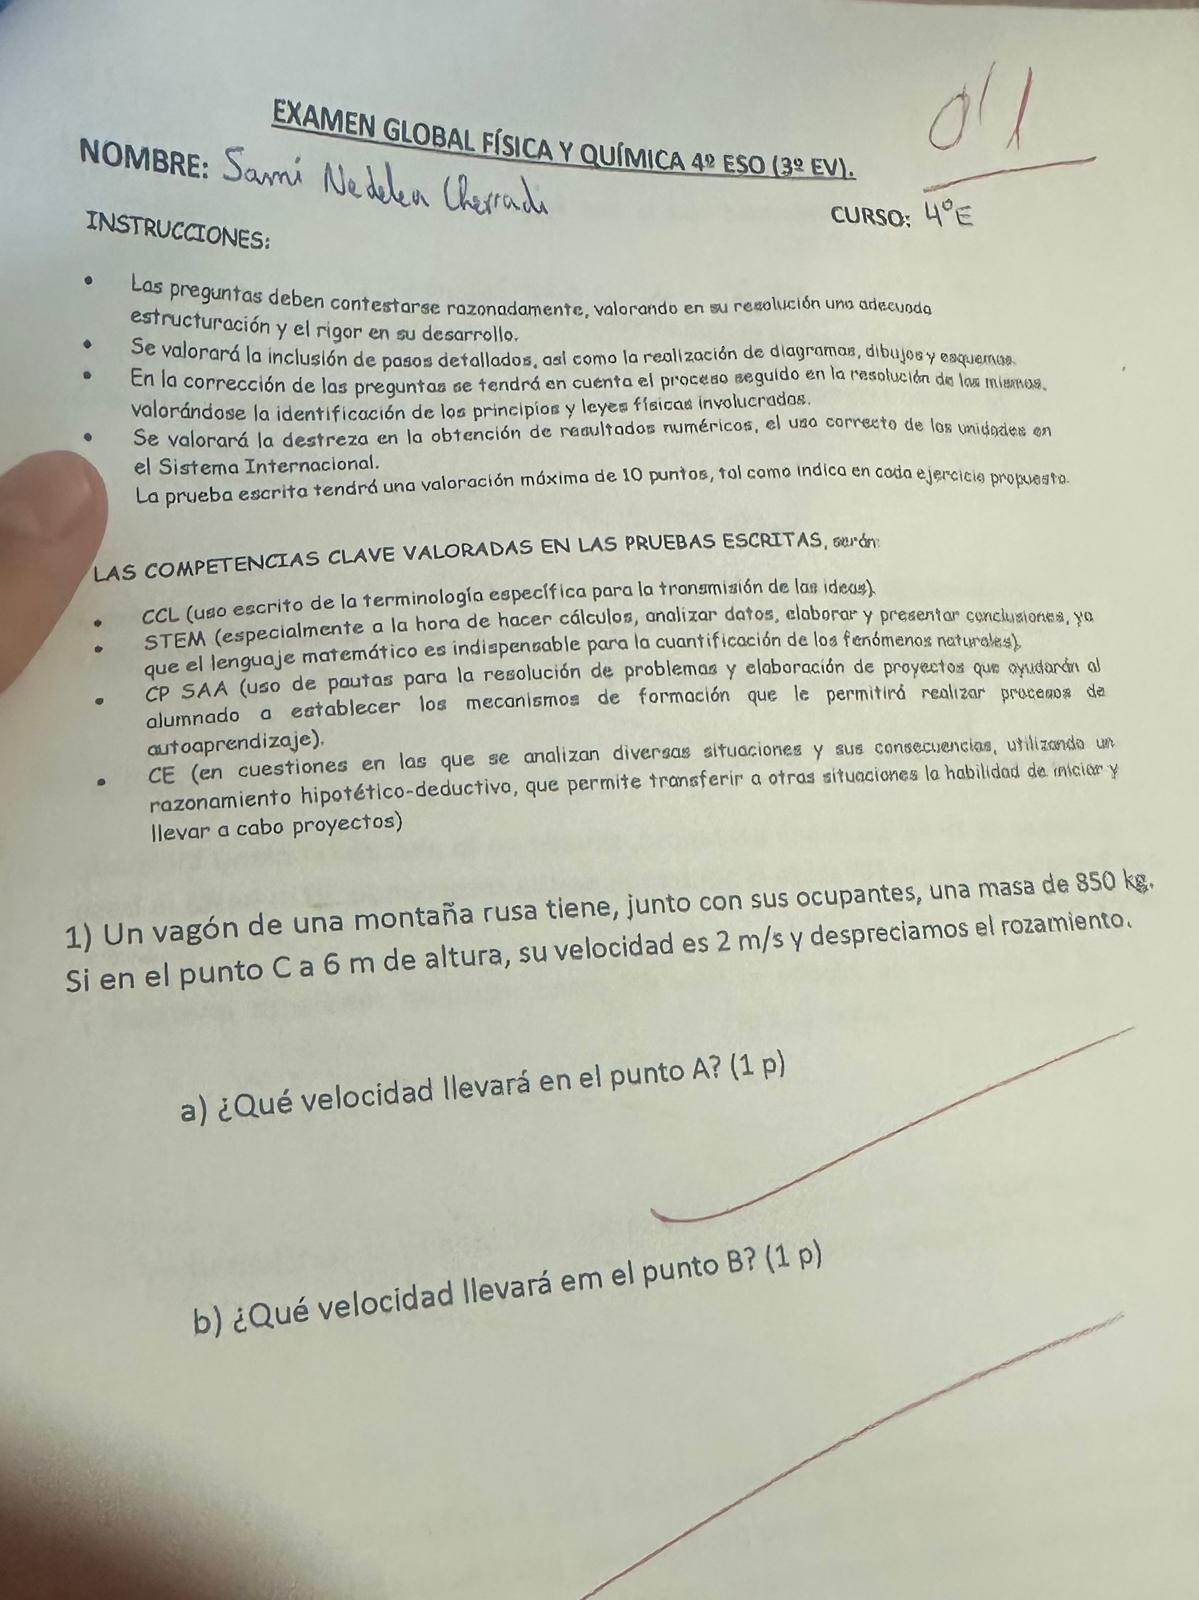
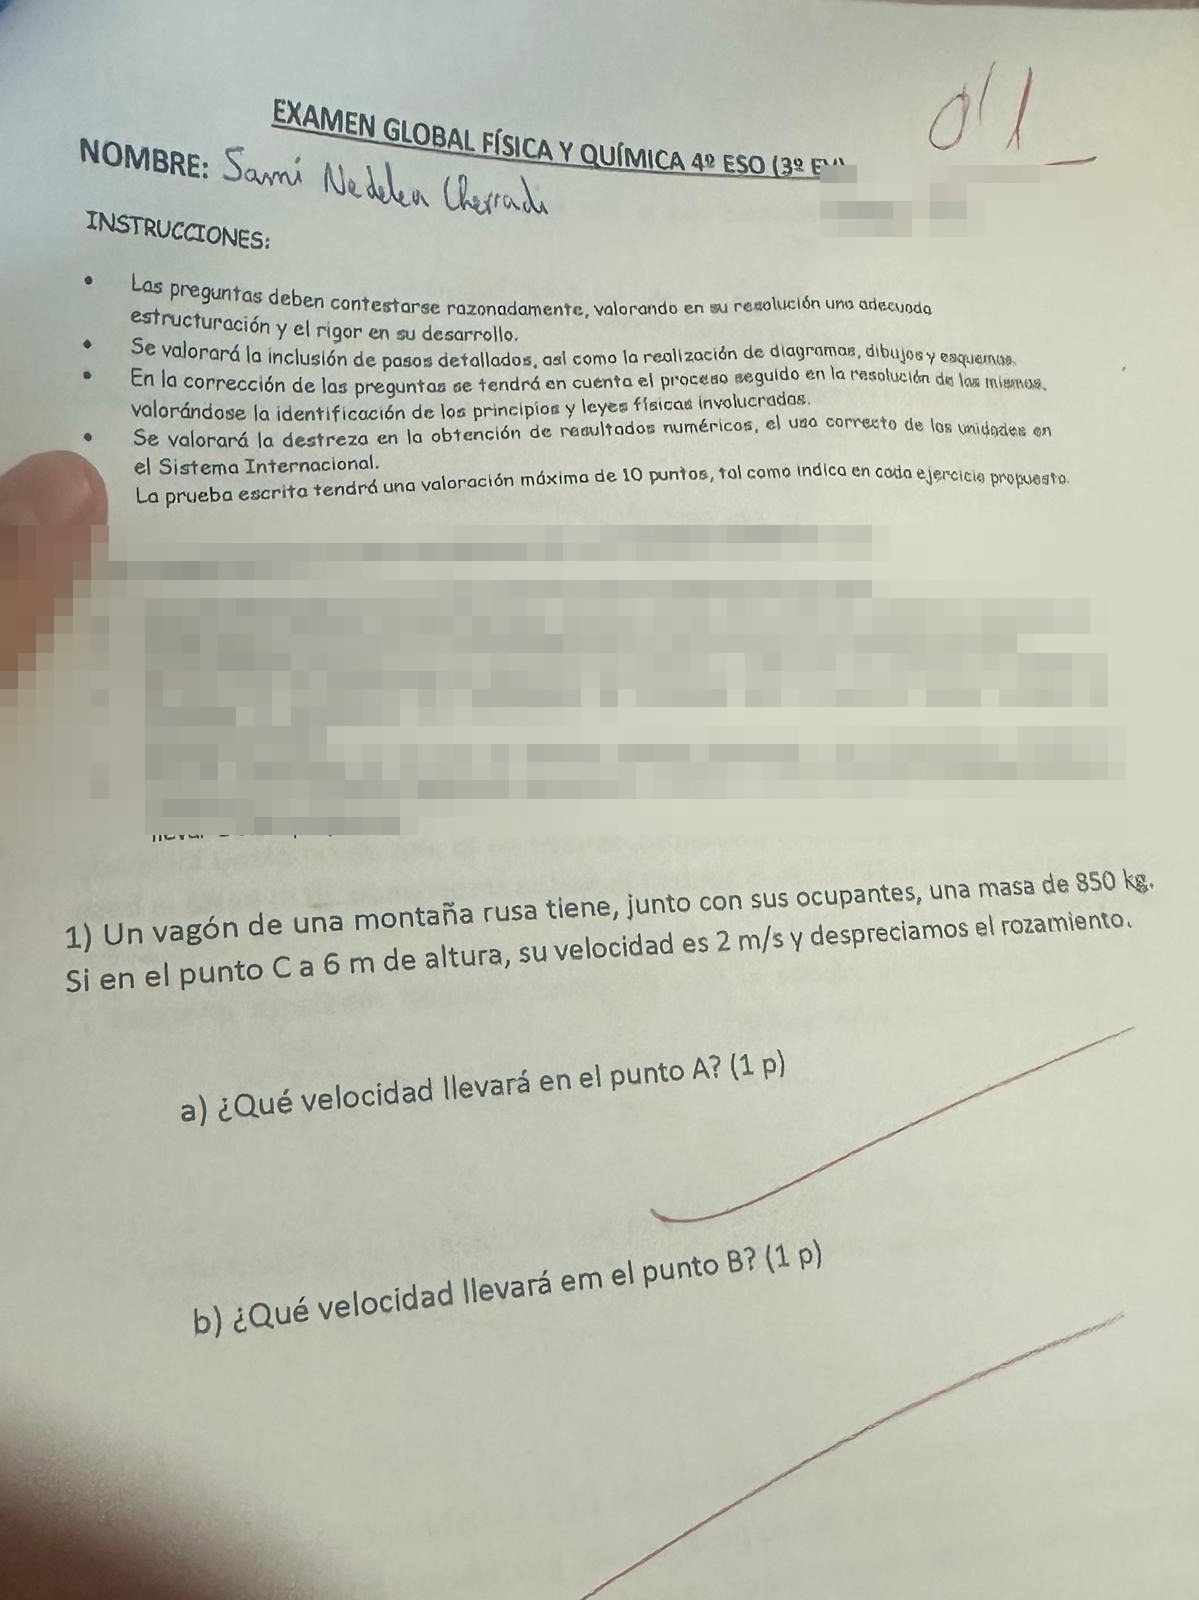
Replace form with 3-step wizard, simplify before/after photos
- New "Tus datos / Tu situación / Acceder" step form matching the
  reference screenshots: grouped fields per step, multiple choice
  question groups, WhatsApp country-code field, animated step indicator
  with native field validation before advancing
- Before/after section: removed the exam photo, back to antes+después
  only, wider landscape boxes with object-fit:contain so nothing is
  cropped, an arrow divider between them, and photos are now
  non-interactive (no click/drag/right-click) so they can't be opened
  large
- Pixelated the course field and competencies paragraph on the exam
  photo (kept in images/ for later use, not currently shown on the page)

Claude-Session: https://claude.ai/code/session_0115d6WxXQZwDDJHY3fDF3WX

Changed region(s): [[0.0617, 0.3125, 0.9258, 0.5312], [0.6789, 0.0938, 0.8023, 0.1562], [0.0309, 0.375, 0.0617, 0.4062]]

diff --git a/index.html b/index.html
@@ -17,7 +17,6 @@
      de aviso; en cuanto lo guardes con el nombre correcto, aparece solo):
        images/hero.jpg        → foto de presentación (arriba)
        images/antes.jpg       → tu foto de "antes"
-       images/examen.jpg      → foto del examen
        images/despues.jpg     → tu foto de "después"
        images/testimonio-1.jpg  a  images/testimonio-8.jpg → capturas/fotos
        de resultados (si quieres más o menos, cambia RESULT_PHOTOS_COUNT
@@ -133,18 +132,21 @@
 
   /* ---------------- story / antes-después ---------------- */
   .story{display:grid;grid-template-columns:1fr;gap:44px;align-items:center}
-  .ba-photos{
-    display:grid;grid-template-columns:1fr 1fr;grid-template-rows:1fr 1fr;
-    gap:14px;aspect-ratio:4/5;
-  }
+  .ba-photos{display:grid;grid-template-columns:1fr auto 1fr;gap:18px;align-items:center}
   .ba-photo{
     position:relative;border-radius:20px;overflow:hidden;
     border:1px solid var(--line);background:var(--bg-soft);
+    aspect-ratio:4/3;
   }
-  .ba-photo.ba-antes{grid-column:1;grid-row:1}
-  .ba-photo.ba-examen{grid-column:1;grid-row:2}
-  .ba-photo.ba-despues{grid-column:2;grid-row:1 / span 2}
-  .ba-photo img{width:100%;height:100%;object-fit:cover}
+  .ba-photo img{
+    width:100%;height:100%;object-fit:contain;pointer-events:none;
+    -webkit-touch-callout:none;-webkit-user-select:none;user-select:none;
+  }
+  .ba-arrow{
+    display:flex;align-items:center;justify-content:center;flex:none;
+    width:40px;height:40px;border-radius:999px;background:var(--red);color:#0a0a0b;
+    font-size:18px;font-weight:900;
+  }
   .ba-photo .badge{
     position:absolute;top:14px;left:14px;background:#ffffff;color:#0a0a0b;
     border:1px solid var(--line);
@@ -153,9 +155,8 @@
   }
   .ba-photo .badge.dark{background:#0a0a0b;color:#ffffff;border-color:rgba(255,255,255,.2)}
   @media (max-width:640px){
-    .ba-photos{grid-template-columns:1fr;grid-template-rows:none;aspect-ratio:auto;gap:10px}
-    .ba-photo{aspect-ratio:4/3}
-    .ba-photo.ba-antes,.ba-photo.ba-examen,.ba-photo.ba-despues{grid-column:1;grid-row:auto}
+    .ba-photos{grid-template-columns:1fr;gap:12px}
+    .ba-arrow{transform:rotate(90deg);margin:0 auto}
   }
   .cta-row{margin-top:26px}
 
@@ -215,23 +216,50 @@
     background:var(--bg-soft);border:1px solid var(--line);border-radius:24px;
     padding:52px 28px;max-width:640px;margin:0 auto;
   }
-  .apply-progress{height:5px;background:var(--line);border-radius:999px;overflow:hidden;margin-bottom:34px}
-  .apply-progress i{display:block;height:100%;background:var(--ink);border-radius:999px;transition:width .3s ease}
+  .steps-nav{display:flex;align-items:flex-start;justify-content:center;margin-bottom:38px}
+  .steps-nav .node{display:flex;flex-direction:column;align-items:center;gap:8px;flex:none;width:100px}
+  .steps-nav .dot{
+    width:36px;height:36px;border-radius:999px;border:2px solid var(--line);
+    display:flex;align-items:center;justify-content:center;font-weight:800;font-size:14px;
+    color:var(--muted);background:var(--bg-soft);transition:all .2s ease;
+  }
+  .steps-nav .node.active .dot,.steps-nav .node.done .dot{background:var(--red);border-color:var(--red);color:#0a0a0b}
+  .steps-nav .node .label{font-size:10px;font-weight:800;letter-spacing:.05em;text-transform:uppercase;color:var(--muted-2);text-align:center}
+  .steps-nav .node.active .label{color:var(--ink)}
+  .steps-nav .line{flex:1;height:2px;background:var(--line);margin-top:18px;min-width:16px;transition:background .2s ease}
+  .steps-nav .line.done{background:var(--red)}
   .step-q{font-family:var(--font-display);font-weight:800;font-size:24px;margin-bottom:6px}
   .step-hint{color:var(--muted);font-size:14px;margin-bottom:24px}
+  .field-label{display:block;font-weight:700;font-size:14px;margin-bottom:8px;color:var(--ink)}
+  .q-label{
+    font-family:var(--font-display);font-weight:800;font-size:12.5px;letter-spacing:.05em;
+    text-transform:uppercase;color:var(--ink);margin:26px 0 12px;
+  }
+  .q-label:first-child{margin-top:0}
   .field{
     width:100%;padding:16px 18px;border:1.5px solid var(--line);border-radius:12px;
     font-size:16px;font-family:inherit;background:#fff;color:#0a0a0b;
   }
   .field:focus{outline:none;border-color:#0a0a0b}
-  textarea.field{min-height:120px;resize:vertical}
+  textarea.field{min-height:100px;resize:vertical}
+  select.field{cursor:pointer}
+  .whatsapp-row{display:flex;gap:10px}
+  .whatsapp-row select.field{flex:none;width:98px;padding-left:10px;padding-right:6px}
+  .whatsapp-row input.field{flex:1}
   .choice-list{display:flex;flex-direction:column;gap:10px}
-  .choice{
+  .choice-grid{display:grid;grid-template-columns:1fr 1fr;gap:10px}
+  @media (max-width:480px){ .choice-grid{grid-template-columns:1fr} }
+  .choice,.choice2{
     width:100%;text-align:left;padding:16px 18px;border:1.5px solid var(--line);border-radius:12px;
     background:#fff;color:#0a0a0b;font-size:15.5px;cursor:pointer;font-family:inherit;
   }
-  .choice:hover{border-color:#0a0a0b}
+  .choice2{display:flex;align-items:center;gap:10px;font-size:14.5px}
+  .choice2 .radio{width:17px;height:17px;border-radius:999px;border:2px solid #c7c7cc;flex:none;position:relative}
+  .choice:hover,.choice2:hover{border-color:#0a0a0b}
   .choice.sel{border-color:#0a0a0b;background:#0a0a0b;color:#fff;font-weight:700}
+  .choice2.sel{border-color:var(--red)}
+  .choice2.sel .radio{border-color:var(--red)}
+  .choice2.sel .radio::after{content:'';position:absolute;inset:3px;border-radius:999px;background:var(--red)}
   .step-actions{display:flex;justify-content:space-between;align-items:center;margin-top:28px}
   .link-back{background:none;border:0;color:var(--muted);cursor:pointer;font-size:14px;padding:8px}
   .step{display:none}
@@ -311,20 +339,16 @@
         </div>
 
         <div class="ba-photos">
-          <div class="ba-photo ba-antes">
+          <div class="ba-photo" oncontextmenu="return false">
             <span class="badge">Antes</span>
-            <img src="images/antes.jpg" alt="Foto de antes de Sami Nedelea"
-              onerror="this.onerror=null;this.src='https://placehold.co/600x800/161619/7c7c85?text=Guarda+tu+foto+como%0Aimages%2Fantes.jpg'" />
+            <img src="images/antes.jpg" alt="Foto de antes de Sami Nedelea" draggable="false"
+              onerror="this.onerror=null;this.src='https://placehold.co/800x600/161619/7c7c85?text=Guarda+tu+foto+como%0Aimages%2Fantes.jpg'" />
           </div>
-          <div class="ba-photo ba-examen">
-            <span class="badge">Examen</span>
-            <img src="images/examen.jpg" alt="Examen de Sami Nedelea"
-              onerror="this.onerror=null;this.src='https://placehold.co/600x800/161619/7c7c85?text=Guarda+tu+foto+como%0Aimages%2Fexamen.jpg'" />
-          </div>
-          <div class="ba-photo ba-despues">
+          <div class="ba-arrow" aria-hidden="true">→</div>
+          <div class="ba-photo" oncontextmenu="return false">
             <span class="badge dark">Después</span>
-            <img src="images/despues.jpg" alt="Foto de después de Sami Nedelea"
-              onerror="this.onerror=null;this.src='https://placehold.co/600x800/161619/7c7c85?text=Guarda+tu+foto+como%0Aimages%2Fdespues.jpg'" />
+            <img src="images/despues.jpg" alt="Foto de después de Sami Nedelea" draggable="false"
+              onerror="this.onerror=null;this.src='https://placehold.co/800x600/161619/7c7c85?text=Guarda+tu+foto+como%0Aimages%2Fdespues.jpg'" />
           </div>
         </div>
       </div>
@@ -368,64 +392,93 @@
     <div class="wrap">
       <div class="head">
         <h2 class="display">Agenda tu llamada gratuita</h2>
-        <p class="lede">Responde estas preguntas rápidas para reservar tu hueco.</p>
+        <p class="lede">Recibe la clase gratis ahora y empieza hoy mismo.</p>
       </div>
 
       <div class="apply">
-        <div class="apply-progress"><i id="progressBar" style="width:16%"></i></div>
-        <form id="applyForm">
+        <div class="steps-nav" id="stepsNav">
+          <div class="node" data-step="0"><span class="dot">1</span><span class="label">Tus datos</span></div>
+          <div class="line" data-line="0"></div>
+          <div class="node" data-step="1"><span class="dot">2</span><span class="label">Tu situación</span></div>
+          <div class="line" data-line="1"></div>
+          <div class="node" data-step="2"><span class="dot">3</span><span class="label">Acceder</span></div>
+        </div>
 
+        <form id="applyForm" onsubmit="return false">
+
+          <!-- STEP 0: TUS DATOS -->
           <div class="step active" data-step="0">
-            <div class="step-q">¿Cuándo te gustaría empezar?</div>
-            <div class="step-hint">Si la llamada confirma que puedo ayudarte.</div>
-            <div class="choice-list" data-field="disponible">
-              <button type="button" class="choice">Ahora mismo</button>
-              <button type="button" class="choice">Esta semana</button>
-              <button type="button" class="choice">Aún no lo sé</button>
-            </div>
-          </div>
+            <label class="field-label" for="fNombre">Nombre</label>
+            <input class="field" id="fNombre" type="text" name="nombre" placeholder="Tu nombre y apellido" required />
 
-          <div class="step" data-step="1">
-            <div class="step-q">¿Cómo te llamas?</div>
-            <div class="step-hint">Tu nombre y apellido.</div>
-            <input class="field" type="text" name="nombre" placeholder="Escribe tu nombre aquí…" required />
-            <div class="step-actions">
-              <button type="button" class="link-back" onclick="prevStep()">← Volver</button>
-              <button type="button" class="btn" onclick="nextStep()">Continuar</button>
-            </div>
-          </div>
-
-          <div class="step" data-step="2">
-            <div class="step-q">¿A qué email te confirmo la llamada?</div>
-            <div class="step-hint">Revisa que esté bien escrito.</div>
+            <div class="q-label">Email</div>
             <input class="field" type="email" name="email" placeholder="tunombre@email.com" required />
-            <div class="step-actions">
-              <button type="button" class="link-back" onclick="prevStep()">← Volver</button>
-              <button type="button" class="btn" onclick="nextStep()">Continuar</button>
+
+            <div class="q-label">WhatsApp</div>
+            <div class="whatsapp-row">
+              <select class="field" name="prefijo">
+                <option value="+34">ES +34</option>
+                <option value="+52">MX +52</option>
+                <option value="+54">AR +54</option>
+                <option value="+57">CO +57</option>
+                <option value="+56">CL +56</option>
+                <option value="+51">PE +51</option>
+                <option value="+593">EC +593</option>
+                <option value="+58">VE +58</option>
+                <option value="+1">US/DO +1</option>
+              </select>
+              <input class="field" type="tel" name="telefono" placeholder="600 000 000" required />
+            </div>
+
+            <div class="step-actions" style="justify-content:flex-end">
+              <button type="button" class="btn" onclick="nextStep()">Continuar <span class="arrow">→</span></button>
             </div>
           </div>
 
-          <div class="step" data-step="3">
-            <div class="step-q">Cuéntame tu situación actual</div>
-            <div class="step-hint">¿Qué te gustaría conseguir? Sé honesto/a, esto lo leo yo.</div>
-            <textarea class="field" name="situacion" placeholder="Cuéntame tu situación y qué quieres conseguir…"></textarea>
+          <!-- STEP 1: TU SITUACIÓN -->
+          <div class="step" data-step="1">
+            <div class="q-label">¿Cuál es tu rango de edad?</div>
+            <div class="choice-grid" data-field="edad">
+              <button type="button" class="choice2"><span class="radio"></span>Menor de 18</button>
+              <button type="button" class="choice2"><span class="radio"></span>Entre 18 y 25</button>
+              <button type="button" class="choice2"><span class="radio"></span>Más de 25</button>
+            </div>
+
+            <div class="q-label">¿Cuánto estás generando actualmente?</div>
+            <div class="choice-grid" data-field="ingresos">
+              <button type="button" class="choice2"><span class="radio"></span>0€</button>
+              <button type="button" class="choice2"><span class="radio"></span>1 – 1.000€/mes</button>
+              <button type="button" class="choice2"><span class="radio"></span>1.000 – 3.000€/mes</button>
+              <button type="button" class="choice2"><span class="radio"></span>3.000 – 5.000€/mes</button>
+              <button type="button" class="choice2"><span class="radio"></span>+5.000€/mes</button>
+            </div>
+
+            <div class="q-label">¿A qué te dedicas actualmente?</div>
+            <div class="choice-grid" data-field="ocupacion">
+              <button type="button" class="choice2"><span class="radio"></span>Estudiante</button>
+              <button type="button" class="choice2"><span class="radio"></span>Empleado</button>
+              <button type="button" class="choice2"><span class="radio"></span>Tengo un negocio</button>
+              <button type="button" class="choice2"><span class="radio"></span>No hago nada</button>
+            </div>
+
+            <div class="q-label">¿Cuándo estarías disponible para empezar?</div>
+            <div class="choice-grid" data-field="disponible">
+              <button type="button" class="choice2"><span class="radio"></span>Ahora mismo</button>
+              <button type="button" class="choice2"><span class="radio"></span>Esta semana</button>
+              <button type="button" class="choice2"><span class="radio"></span>No lo sé porque no sé tomar decisiones</button>
+            </div>
+
+            <div class="q-label">¿Por qué quieres empezar en el programa?</div>
+            <textarea class="field" name="situacion" placeholder="Sé honesto. Esto lo leo yo."></textarea>
+
             <div class="step-actions">
               <button type="button" class="link-back" onclick="prevStep()">← Volver</button>
-              <button type="button" class="btn" onclick="nextStep()">Continuar</button>
+              <button type="button" class="btn" onclick="nextStep()">Continuar <span class="arrow">→</span></button>
             </div>
           </div>
 
-          <div class="step" data-step="4">
-            <div class="step-q">Por último, ¿tu teléfono?</div>
-            <div class="step-hint">Por si necesito contactarte sobre tu llamada.</div>
-            <input class="field" type="tel" name="telefono" placeholder="+34 600 000 000" required />
-            <div class="step-actions">
-              <button type="button" class="link-back" onclick="prevStep()">← Volver</button>
-              <button type="submit" class="btn">Ver horarios disponibles</button>
-            </div>
-          </div>
-
-          <div class="step" data-step="5">
+          <!-- STEP 2: ACCEDER -->
+          <div class="step" data-step="2">
             <div class="success">
               <div class="check">✓</div>
               <h3 style="font-family:var(--font-display);font-size:22px;margin-bottom:8px">¡Ya casi está!</h3>
@@ -516,35 +569,57 @@ var steps = document.querySelectorAll('.step');
 var current = 0;
 var formData = {};
 
+function updateStepsNav(i){
+  document.querySelectorAll('#stepsNav .node').forEach(function(n){
+    var idx = parseInt(n.getAttribute('data-step'), 10);
+    n.classList.remove('active', 'done');
+    var dot = n.querySelector('.dot');
+    if (idx < i){ n.classList.add('done'); dot.textContent = '✓'; }
+    else { dot.textContent = idx + 1; if (idx === i) n.classList.add('active'); }
+  });
+  document.querySelectorAll('#stepsNav .line').forEach(function(l){
+    var idx = parseInt(l.getAttribute('data-line'), 10);
+    l.classList.toggle('done', idx < i);
+  });
+}
 function showStep(i){
   steps.forEach(function(s){ s.classList.remove('active'); });
   steps[i].classList.add('active');
-  document.getElementById('progressBar').style.width = Math.round(((i+1)/steps.length)*100) + '%';
+  updateStepsNav(i);
   current = i;
 }
-function nextStep(){ if (current < steps.length - 1) showStep(current + 1); }
+/* Solo valida los campos visibles del paso actual (nombre/email/whatsapp en
+   el paso 0); los grupos de elección no son obligatorios para poder avanzar. */
+function stepIsValid(stepEl){
+  var invalid = stepEl.querySelectorAll(':invalid');
+  if (invalid.length){ invalid[0].reportValidity(); return false; }
+  return true;
+}
+function syncFormData(){
+  var fd = new FormData(document.getElementById('applyForm'));
+  fd.forEach(function(v, k){ formData[k] = v; });
+}
+function nextStep(){
+  if (!stepIsValid(steps[current])) return;
+  syncFormData();
+  if (current === steps.length - 2){ track('form_submit', formData); }
+  if (current < steps.length - 1) showStep(current + 1);
+}
 function prevStep(){ if (current > 0) showStep(current - 1); }
+updateStepsNav(0);
 
-/* step 0: choice buttons */
-document.querySelectorAll('#applyForm .choice-list .choice').forEach(function(btn){
-  btn.addEventListener('click', function(){
-    var list = btn.parentElement;
-    list.querySelectorAll('.choice').forEach(function(b){ b.classList.remove('sel'); });
-    btn.classList.add('sel');
-    formData[list.getAttribute('data-field')] = btn.textContent;
-    track('form_step', {field: list.getAttribute('data-field'), value: btn.textContent});
-    setTimeout(nextStep, 200);
+/* grupos de selección única (varios por paso) */
+document.querySelectorAll('#applyForm .choice-grid, #applyForm .choice-list').forEach(function(group){
+  group.querySelectorAll('.choice, .choice2').forEach(function(btn){
+    btn.addEventListener('click', function(){
+      group.querySelectorAll('.choice, .choice2').forEach(function(b){ b.classList.remove('sel'); });
+      btn.classList.add('sel');
+      var field = group.getAttribute('data-field');
+      var value = btn.textContent.trim();
+      formData[field] = value;
+      track('form_step', {field: field, value: value});
+    });
   });
-});
-
-document.getElementById('applyForm').addEventListener('submit', function(e){
-  e.preventDefault();
-  var fd = new FormData(e.target);
-  fd.forEach(function(v,k){ formData[k] = v; });
-  track('form_submit', formData);
-  /* [PLACEHOLDER] Si quieres guardar/enviar estos datos (email, CRM, Google
-     Sheets, Zapier, etc.) es aquí donde harías el fetch() a tu backend. */
-  showStep(steps.length - 1);
 });
 
 /* ---- sticky bar visibility ---- */
